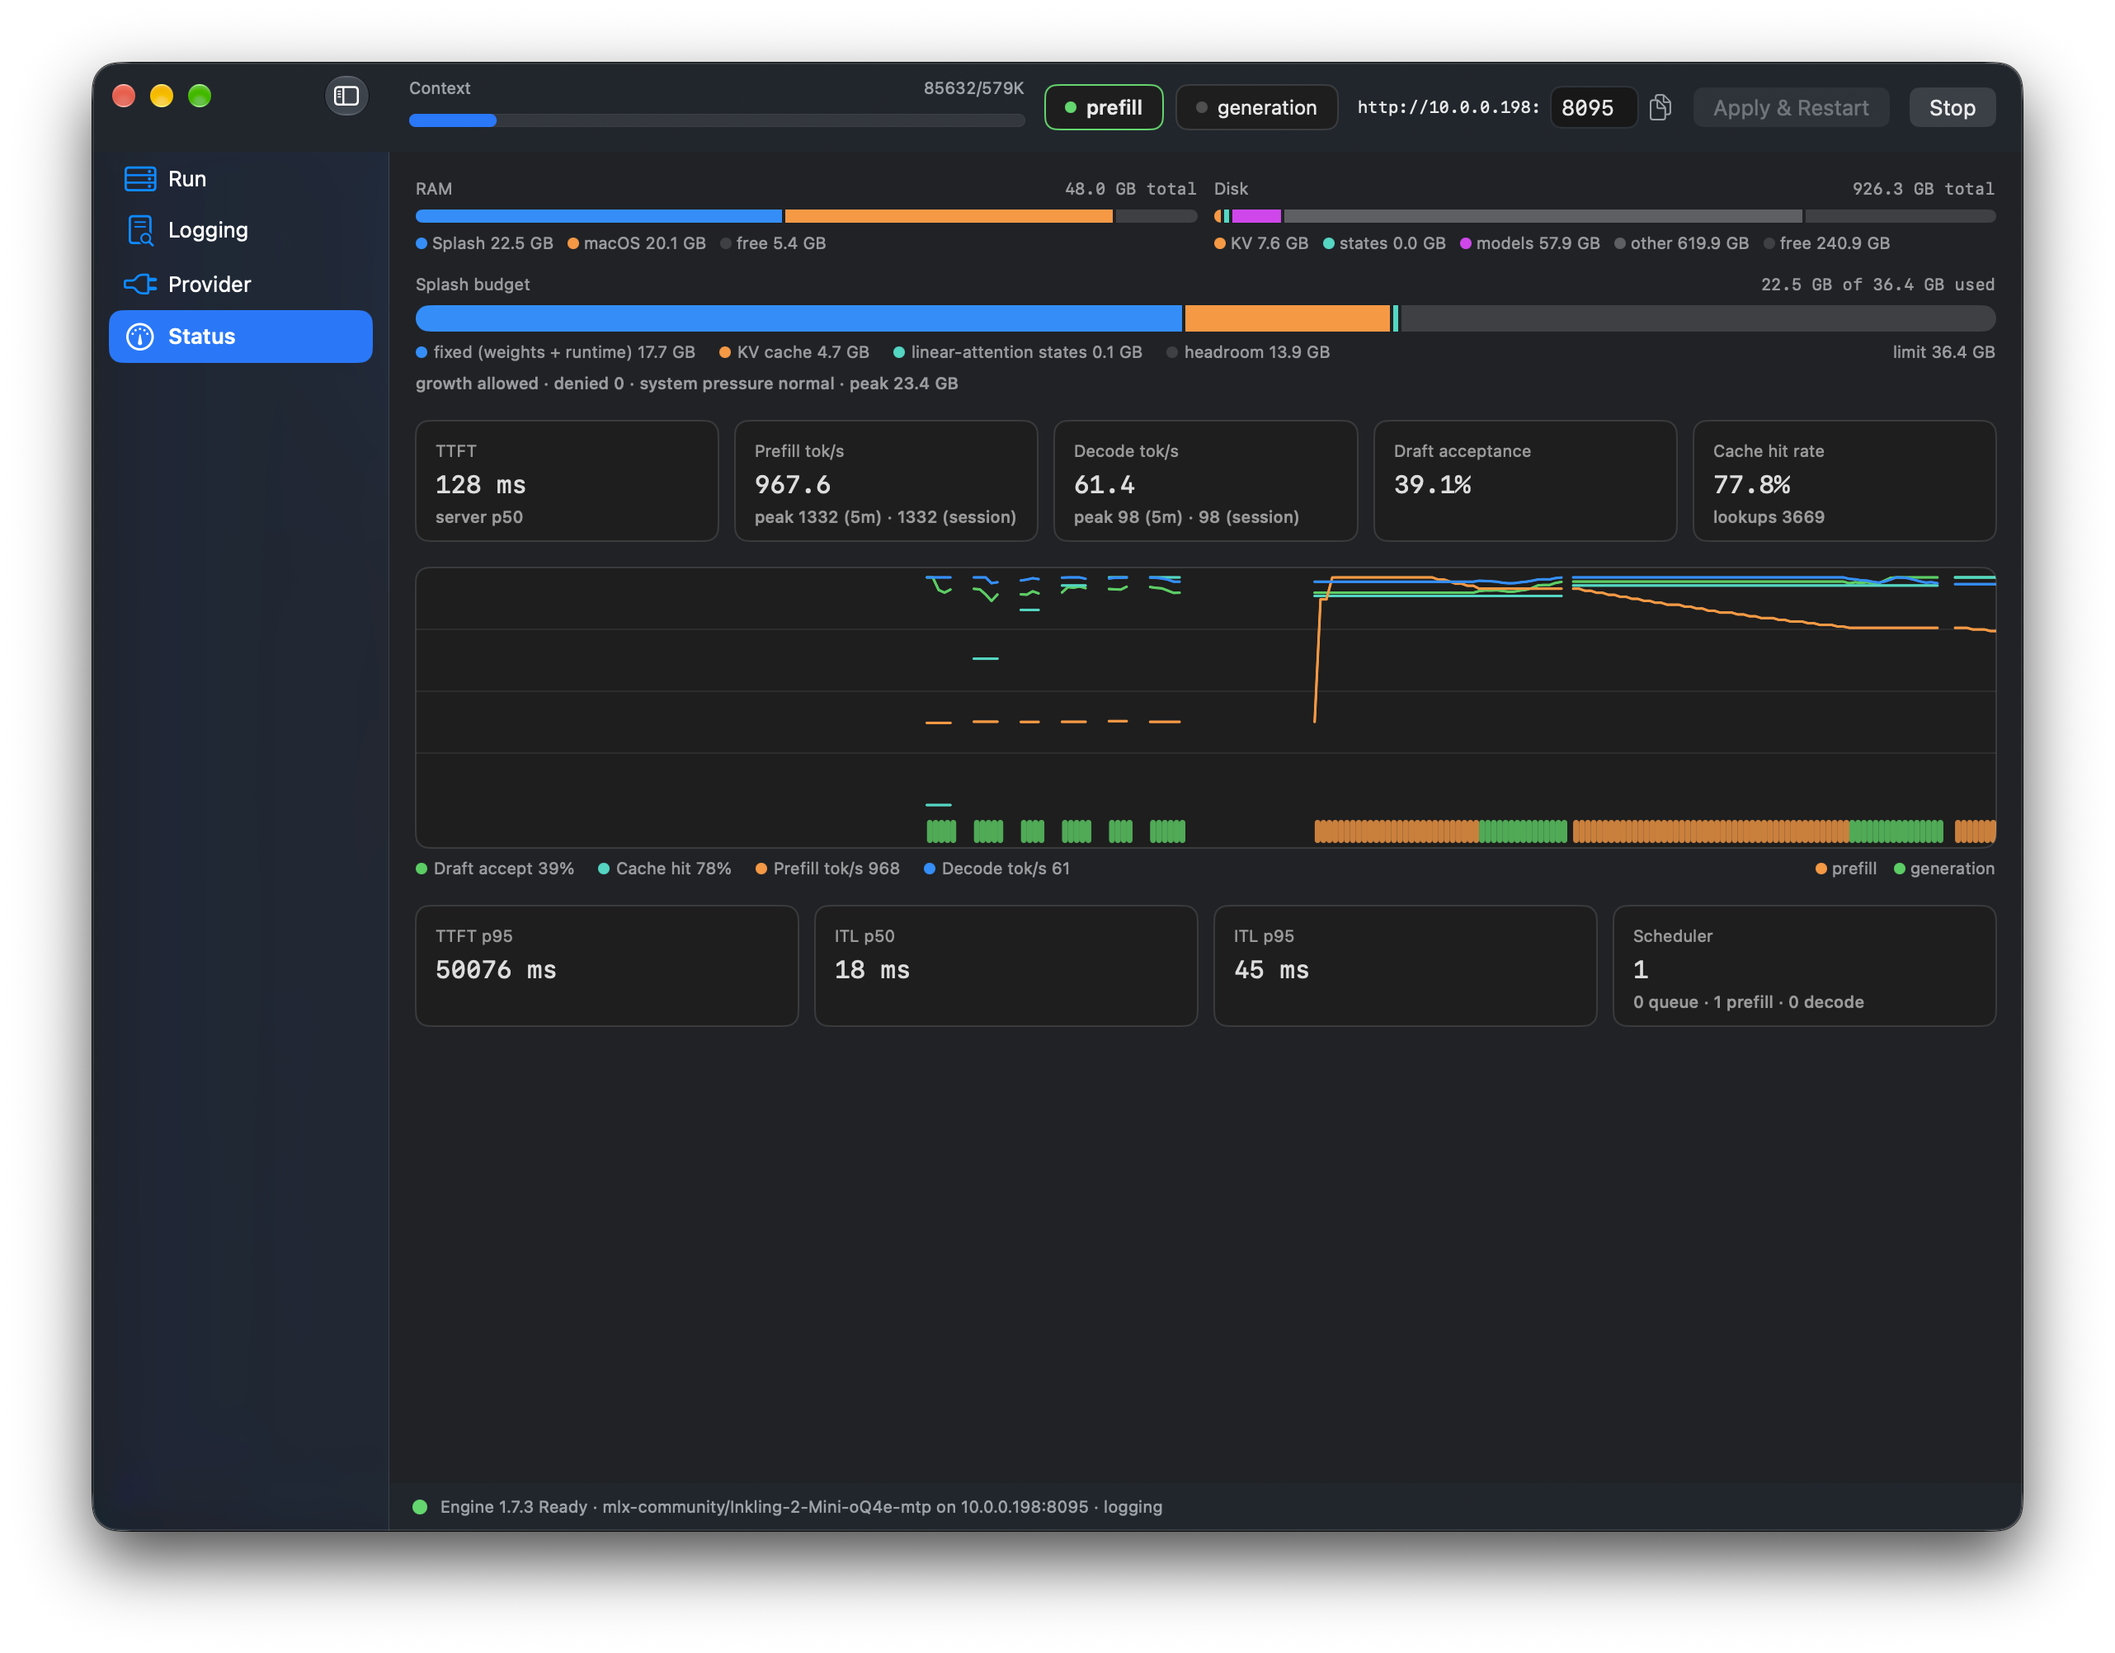
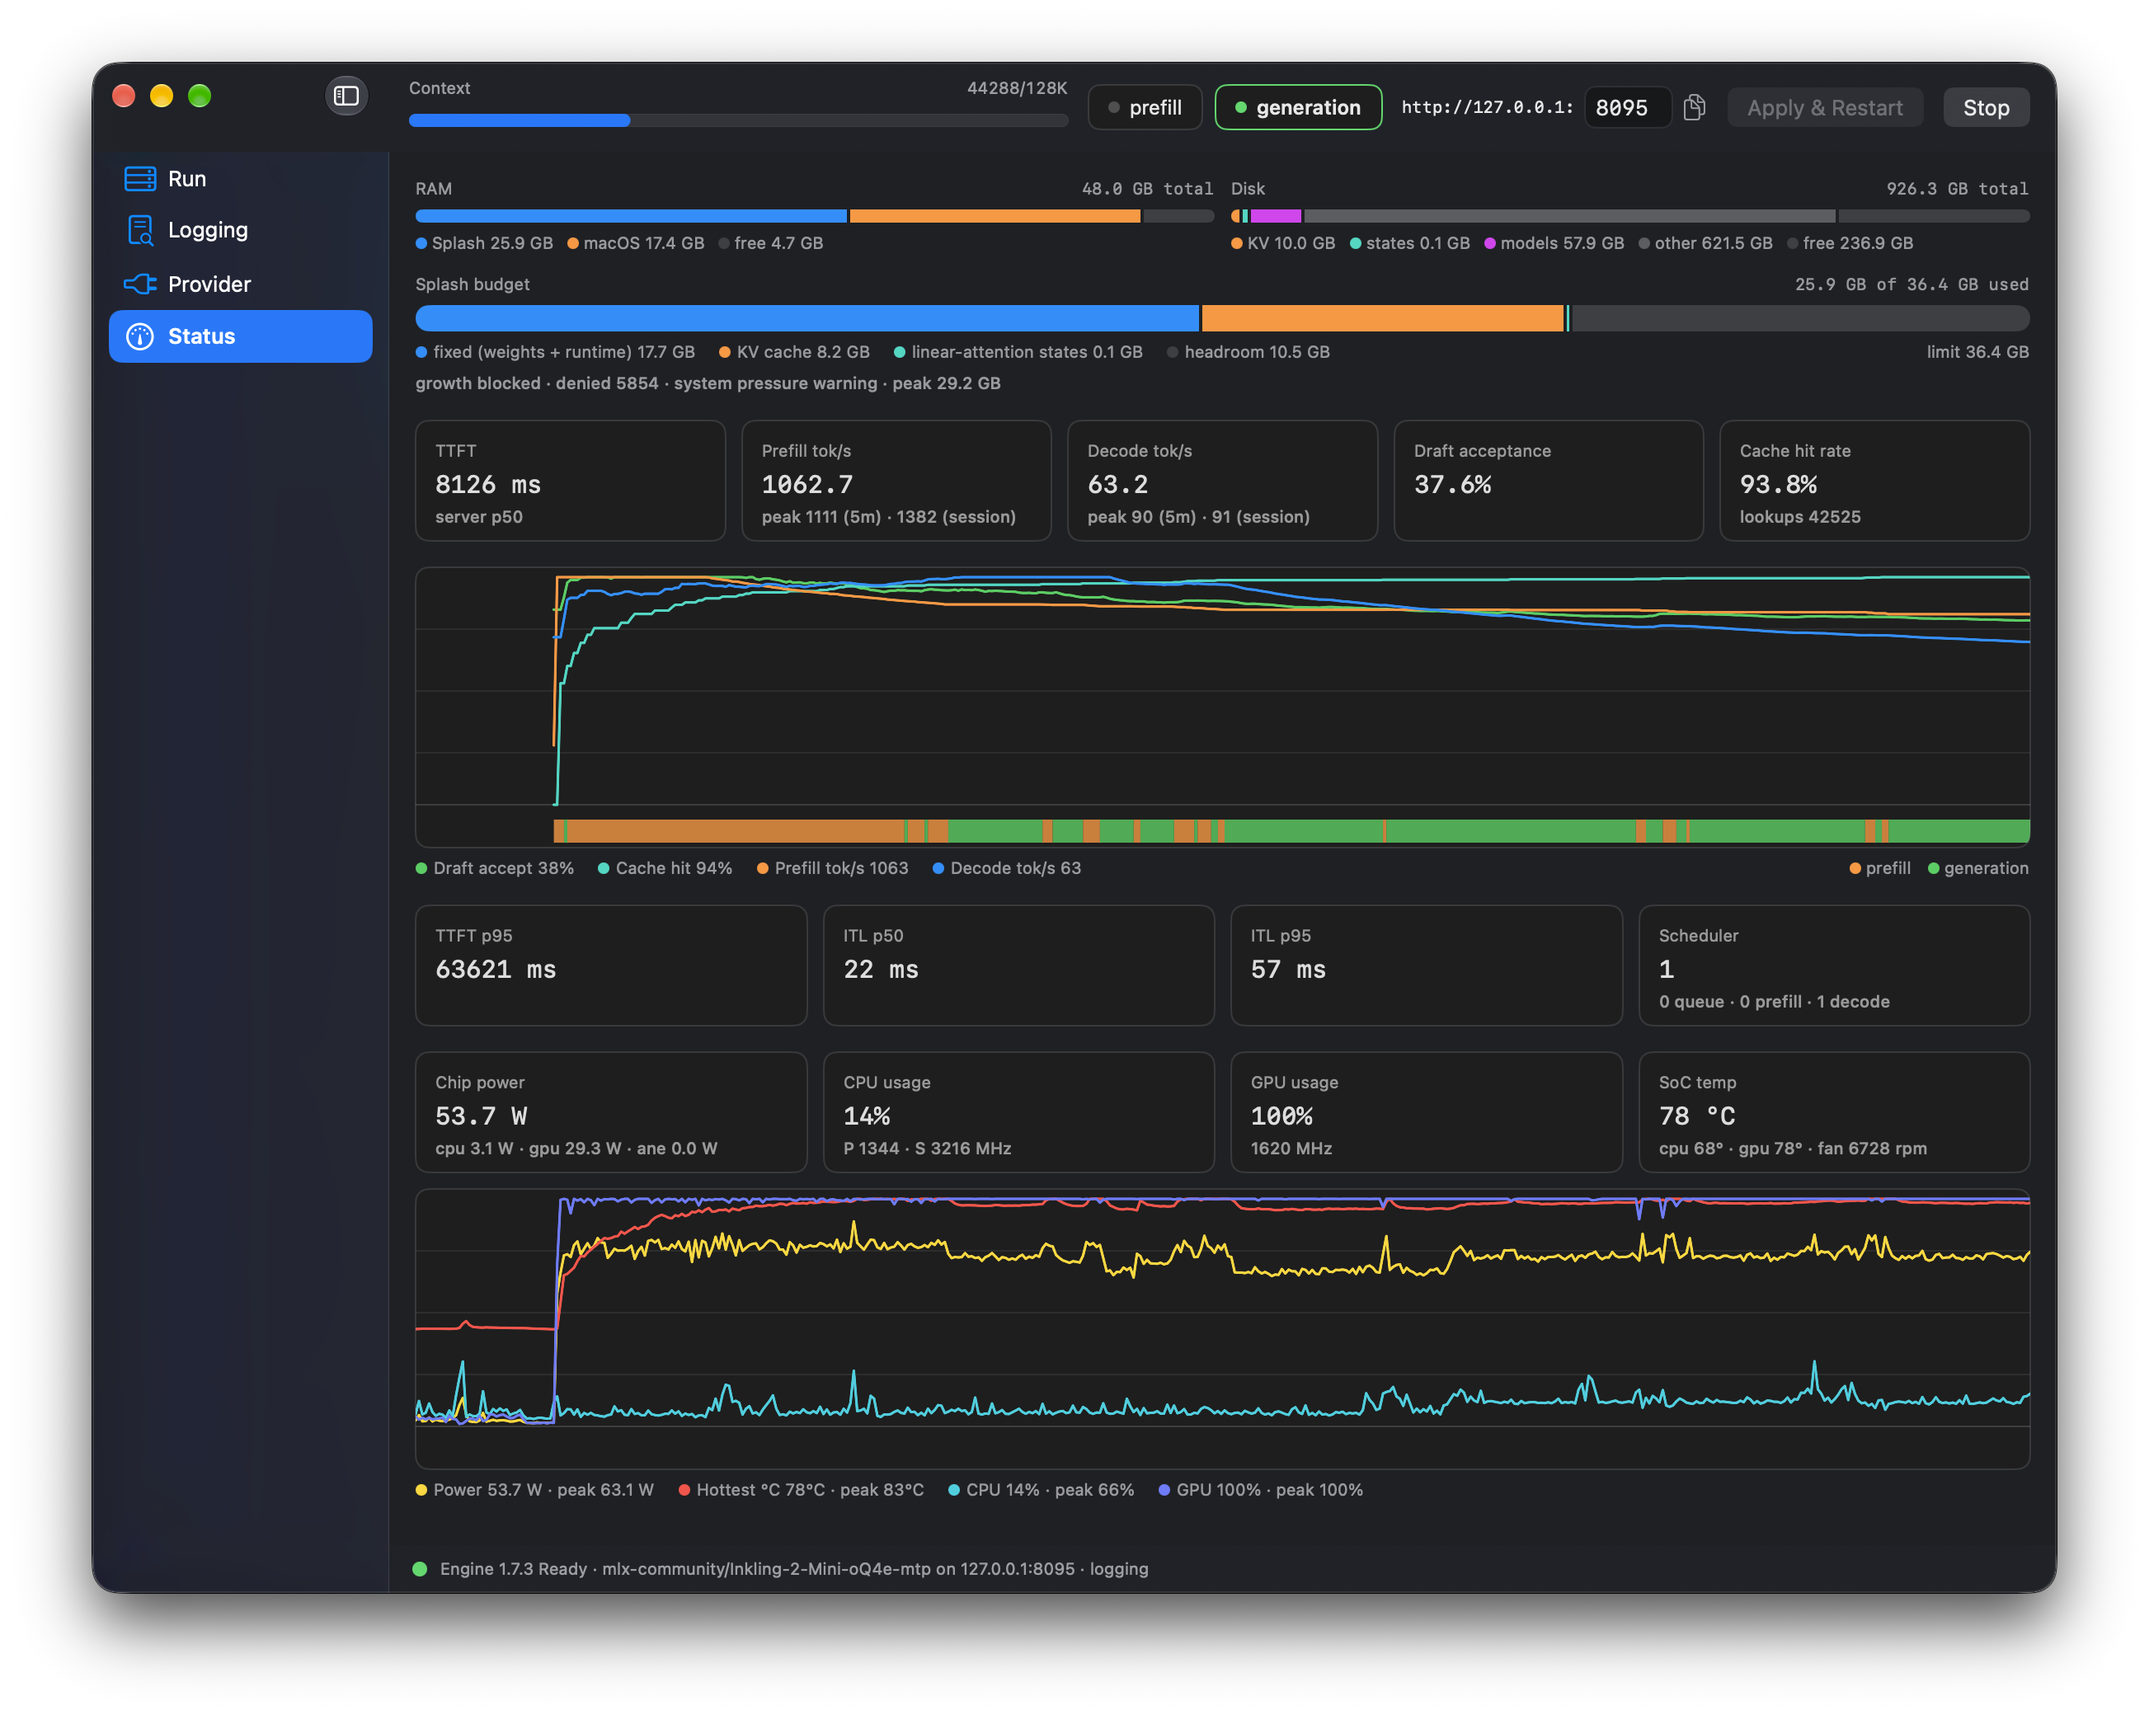
readme update and new status page png

diff --git a/README.md b/README.md
@@ -18,7 +18,9 @@ Logging tab: Toggle logging local sessions, LAN sessions, and choose retention. 
 Provider tab: Temperature, top-p/k settings, and other on-the-fly adjustable ones. Toggle LAN IP on/off and it'll flip from filling the localhost or LAN IP, making it easy to paste over to LAN machines without manually correcting the IP. The json template updates with the settings you pick here and on run, for easy copy-pasting into various service configs (I mostly use OpenCode V2 and Pi). 
 
 ![status tab, displaying token per second and other stats, plus a chart graphing the main ones](images/Status.png)
-Status tab: monitoring. Shows time to first token, prefill, decode, draft acceptance, cache hit, etc. Graphs prefill tok/s, decode tok/s, cache hit percentage, and draft accept percentage. Now shows total RAM and Disk states up top, and then the Splash memory budget details below. Cleaned up the lower section in anticipation of adding hardware monitoring.
+Status tab: monitoring. Shows time to first token, prefill, decode, draft acceptance, cache hit, etc. Graphs prefill tok/s, decode tok/s, cache hit percentage, and draft accept percentage. Now shows total RAM and Disk states up top, and then the Splash memory budget details below. 
+
+Massive shout to macmon: [macmon](https://github.com/vladkens/macmon). It’s an MIT licensed, sudo-less [name]top type utility. It has a serve function + can be easily ran as a child process and piped back. SplashGUI can now use it to show hardware stats on the Status page. It can pull it from GitHub itself, or use a homebrew install same as for the Splash engine itself. It requires a one-time opt-in on the Status page, since it’s a separate utility that’ll be installed or polled on your computer. 
 
 ## Requirements
 
